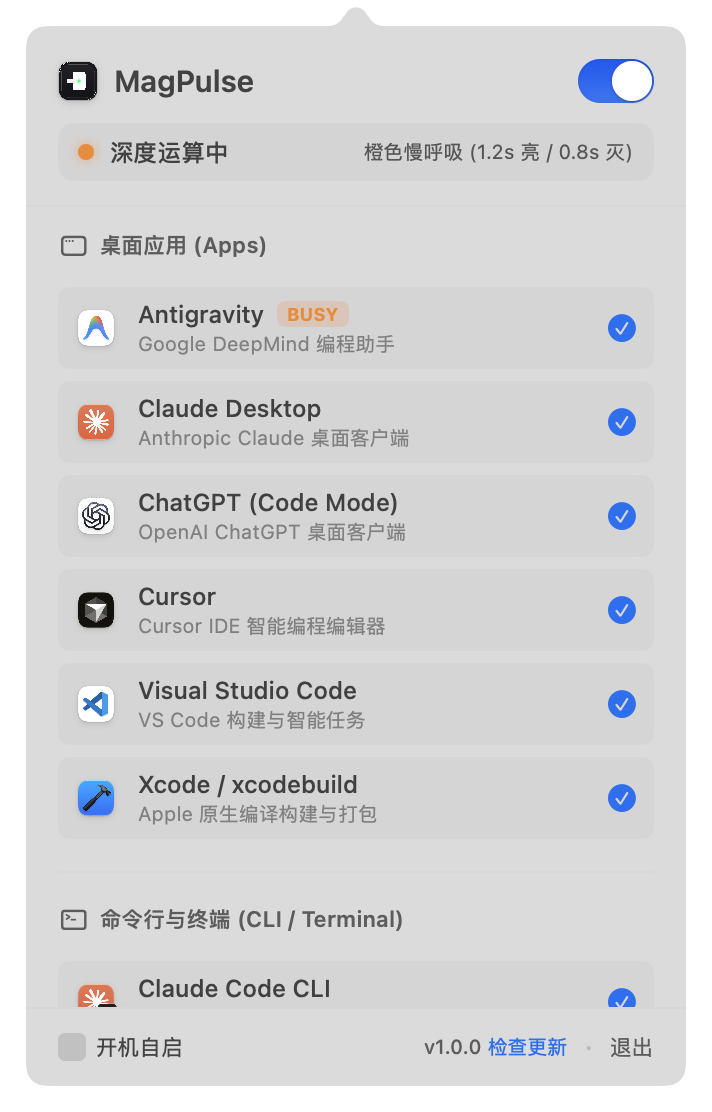
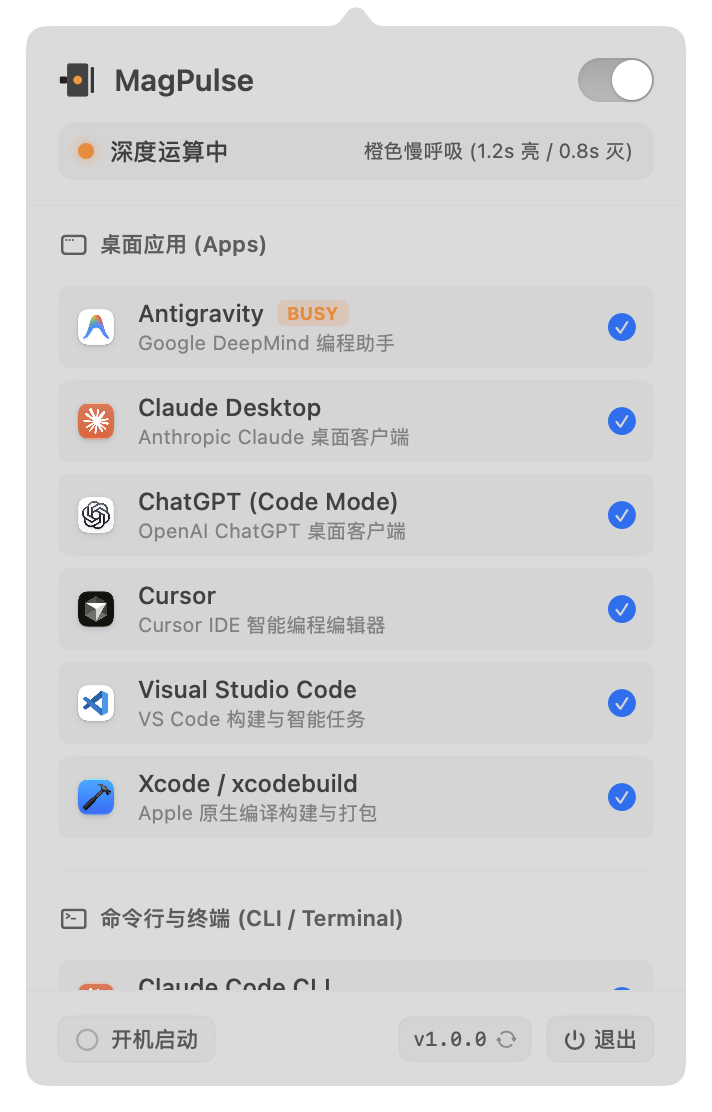
feat(ui): redesign header with raw status plug and rebuild footer with native capsule controls

diff --git a/Sources/MagPulse/PopoverView.swift b/Sources/MagPulse/PopoverView.swift
@@ -3,6 +3,8 @@ import SwiftUI
 public struct PopoverView: View {
     @ObservedObject var settings = AppSettings.shared
     @ObservedObject var arbiter = ArbiterEngine.shared
+    @ObservedObject var hardware = HardwareController.shared
+    @ObservedObject var updater = Updater.shared
     
     public init() {}
     
@@ -83,12 +85,14 @@ public struct PopoverView: View {
         VStack(spacing: 10) {
             HStack(alignment: .center) {
                 HStack(spacing: 8) {
-                    Image(nsImage: appIconImage)
-                        .resizable()
-                        .aspectRatio(contentMode: .fit)
-                        .frame(width: 20, height: 20)
-                        .cornerRadius(4)
-                        .shadow(color: Color.black.opacity(0.15), radius: 2, x: 0, y: 1)
+                    // 状态栏同款实时 MagSafe 充电头 (纯净透明背景，无黑壳，实时跟随硬件律动)
+                    Image(nsImage: MagSafeIconFactory.makeHeaderPlugIcon(
+                        colorState: hardware.currentHardwareColor,
+                        isEnabled: settings.isEnabled
+                    ))
+                    .resizable()
+                    .aspectRatio(contentMode: .fit)
+                    .frame(width: 20, height: 21)
                     
                     Text("MagPulse")
                         .font(.system(size: 15, weight: .semibold))
@@ -319,37 +323,92 @@ public struct PopoverView: View {
     }
     
     private var footerBar: some View {
-        HStack(alignment: .center) {
-            Toggle("开机自启", isOn: $settings.launchAtLogin)
-                .font(.system(size: 11))
-                .toggleStyle(CheckboxToggleStyle())
+        HStack(alignment: .center, spacing: 8) {
+            // 1. 开机自启：精致拟物微胶囊开关
+            Button(action: {
+                settings.launchAtLogin.toggle()
+            }) {
+                HStack(spacing: 5) {
+                    Image(systemName: settings.launchAtLogin ? "checkmark.circle.fill" : "circle")
+                        .font(.system(size: 11, weight: .semibold))
+                        .foregroundColor(settings.launchAtLogin ? .accentColor : .secondary.opacity(0.4))
+                    
+                    Text("开机启动")
+                        .font(.system(size: 11, weight: .medium))
+                        .foregroundColor(settings.launchAtLogin ? .primary : .secondary)
+                }
+                .padding(.horizontal, 8)
+                .padding(.vertical, 4.5)
+                .background(
+                    RoundedRectangle(cornerRadius: 6)
+                        .fill(settings.launchAtLogin ? Color.accentColor.opacity(0.08) : Color.primary.opacity(0.03))
+                )
+                .overlay(
+                    RoundedRectangle(cornerRadius: 6)
+                        .stroke(settings.launchAtLogin ? Color.accentColor.opacity(0.22) : Color.primary.opacity(0.06), lineWidth: 0.5)
+                )
+            }
+            .buttonStyle(.plain)
             
             Spacer()
             
+            // 2. 版本号与检查更新微胶囊
             Button(action: {
-                Updater.shared.checkForUpdates()
+                updater.checkForUpdates()
             }) {
-                HStack(spacing: 3) {
-                    Text("v\(Updater.shared.currentVersion)")
-                        .font(.system(size: 10, weight: .medium))
+                HStack(spacing: 4) {
+                    Text("v\(updater.currentVersion)")
+                        .font(.system(size: 10, weight: .medium, design: .monospaced))
                         .foregroundColor(.secondary)
-                    Text("检查更新")
-                        .font(.system(size: 10))
-                        .foregroundColor(.accentColor)
+                    
+                    if updater.outcome == .checking {
+                        ProgressView()
+                            .scaleEffect(0.45)
+                            .frame(width: 9, height: 9)
+                    } else {
+                        Image(systemName: "arrow.triangle.2.circlepath")
+                            .font(.system(size: 8.5, weight: .semibold))
+                            .foregroundColor(.secondary.opacity(0.7))
+                    }
                 }
+                .padding(.horizontal, 7)
+                .padding(.vertical, 4.5)
+                .background(
+                    RoundedRectangle(cornerRadius: 6)
+                        .fill(Color.primary.opacity(0.04))
+                )
+                .overlay(
+                    RoundedRectangle(cornerRadius: 6)
+                        .stroke(Color.primary.opacity(0.06), lineWidth: 0.5)
+                )
             }
             .buttonStyle(.plain)
+            .help("检查更新 (Sparkle)")
             
-            Text("•")
-                .font(.system(size: 10))
-                .foregroundColor(.secondary.opacity(0.3))
-            
-            Button("退出") {
+            // 3. 退出按钮：紧凑微型图标按钮
+            Button(action: {
                 NSApp.terminate(nil)
+            }) {
+                HStack(spacing: 3.5) {
+                    Image(systemName: "power")
+                        .font(.system(size: 9.5, weight: .bold))
+                    Text("退出")
+                        .font(.system(size: 11, weight: .medium))
+                }
+                .foregroundColor(.secondary)
+                .padding(.horizontal, 8)
+                .padding(.vertical, 4.5)
+                .background(
+                    RoundedRectangle(cornerRadius: 6)
+                        .fill(Color.primary.opacity(0.04))
+                )
+                .overlay(
+                    RoundedRectangle(cornerRadius: 6)
+                        .stroke(Color.primary.opacity(0.06), lineWidth: 0.5)
+                )
             }
-            .font(.system(size: 11))
-            .foregroundColor(.secondary)
             .buttonStyle(.plain)
+            .help("退出 MagPulse (⌘Q)")
         }
     }
     

diff --git a/Sources/MagPulse/MagSafeIconFactory.swift b/Sources/MagPulse/MagSafeIconFactory.swift
@@ -84,6 +84,83 @@ public final class MagSafeIconFactory {
         return image
     }
     
+    /// 弹窗内部顶栏使用的实时 MagSafe 接头图标：
+    /// 彻底去除任何外部黑色背景壳子，透明背景，自适应深浅外观，
+    /// 中央保留实时同步的硬件光珠（绿/橙/暗态）。
+    public static func makeHeaderPlugIcon(colorState: String, isEnabled: Bool) -> NSImage {
+        let size = NSSize(width: 22.0, height: 23.0)
+        let image = NSImage(size: size, flipped: false) { rect in
+            guard NSGraphicsContext.current != nil else { return false }
+            
+            let midY: CGFloat = 11.5
+            // 动态前景色：随系统浅色/深色外观自适应（深色模式纯白，浅色模式深黑）
+            let monoColor = NSColor.labelColor
+            
+            // 1. 左边：编织线缆 (宽 4.0 pt, 厚 3.8 pt, 垂直居中)
+            let cableRect = NSRect(x: 1.0, y: midY - 1.9, width: 4.0, height: 3.8)
+            monoColor.withAlphaComponent(0.85).setFill()
+            NSBezierPath(roundedRect: cableRect, xRadius: 0.6, yRadius: 0.6).fill()
+            
+            // 2. 中间：主体方块 (宽 11.6 pt, 高 18.2 pt, 极微圆角)
+            let bodyRect = NSRect(x: 5.0, y: midY - 9.1, width: 11.6, height: 18.2)
+            monoColor.setFill()
+            NSBezierPath(roundedRect: bodyRect, xRadius: 1.2, yRadius: 1.2).fill()
+            
+            // 3. 右边：磁吸前端触点小方块 (宽 1.8 pt, 高 14.2 pt, 垂直居中)
+            let tipRect = NSRect(x: 18.0, y: midY - 7.1, width: 1.8, height: 14.2)
+            monoColor.withAlphaComponent(0.75).setFill()
+            NSBezierPath(roundedRect: tipRect, xRadius: 0.5, yRadius: 0.5).fill()
+            
+            // 4. 正中央指示灯 (中心在 x = 10.8 pt, y = 11.5 pt)
+            let center = CGPoint(x: 10.8, y: midY)
+            let ledRadius: CGFloat = 2.4
+            let ledRect = NSRect(x: center.x - ledRadius, y: center.y - ledRadius, width: ledRadius * 2, height: ledRadius * 2)
+            
+            if !isEnabled {
+                NSColor(white: 0.60, alpha: 1.0).setFill()
+                NSBezierPath(ovalIn: ledRect).fill()
+                
+                let slashPath = NSBezierPath()
+                slashPath.move(to: NSPoint(x: 2.5, y: 19.5))
+                slashPath.line(to: NSPoint(x: 18.5, y: 3.5))
+                slashPath.lineWidth = 1.4
+                NSColor.systemRed.withAlphaComponent(0.95).setStroke()
+                slashPath.stroke()
+                return true
+            }
+            
+            let activeColor: String
+            if colorState == "system" {
+                activeColor = getSystemBatteryLightMode()
+            } else {
+                activeColor = colorState
+            }
+            
+            switch activeColor {
+            case "green":
+                NSColor(red: 0.12, green: 0.90, blue: 0.38, alpha: 1.0).setFill()
+                NSBezierPath(ovalIn: ledRect).fill()
+                
+            case "amber":
+                NSColor(red: 1.0, green: 0.58, blue: 0.0, alpha: 1.0).setFill()
+                NSBezierPath(ovalIn: ledRect).fill()
+                
+            case "off":
+                NSColor(white: 0.70, alpha: 0.8).setFill()
+                NSBezierPath(ovalIn: ledRect).fill()
+                
+            default:
+                NSColor(red: 0.12, green: 0.90, blue: 0.38, alpha: 1.0).setFill()
+                NSBezierPath(ovalIn: ledRect).fill()
+            }
+            
+            return true
+        }
+        
+        image.isTemplate = false
+        return image
+    }
+    
     /// 读取系统当前实际电源充电状态
     private static func getSystemBatteryLightMode() -> String {
         guard let snapshot = IOPSCopyPowerSourcesInfo()?.takeRetainedValue(),
